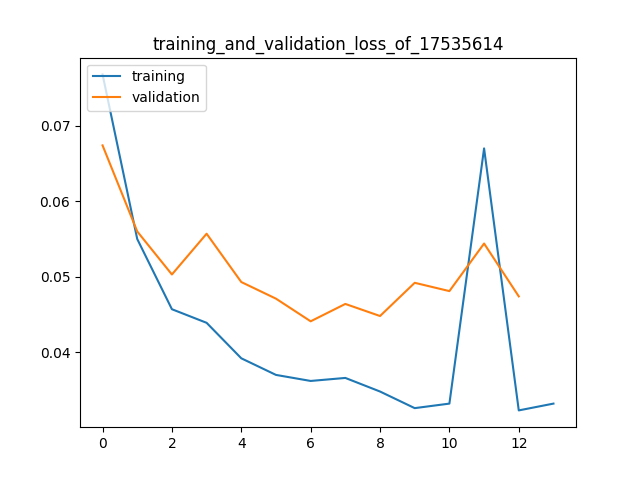
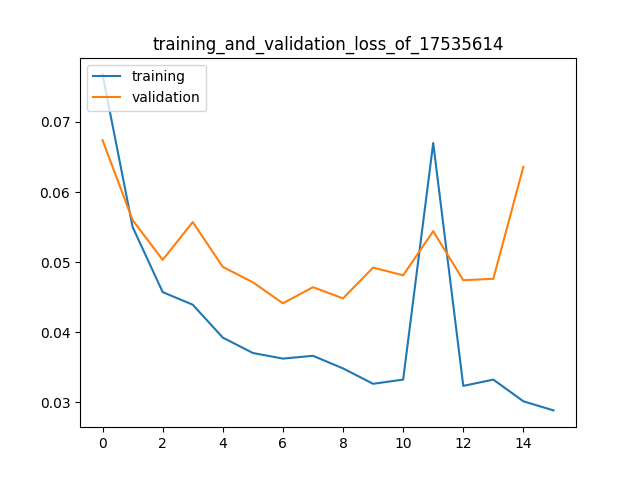
fixes

diff --git a/src/playground.py b/src/playground.py
@@ -15,18 +15,25 @@ def plot_training_and_validation_losses(slurm_output_file):
     training_loss_list = []
     validation_loss_list = []
     with open(slurm_output_file, "r", encoding="utf-8") as f:
+        new_epoch_train = True
+        new_epoch_validation = True
         for row in f:
             match_loss_training = re.search(r"Loss on the entire training epoch: (\d+\.\d+)", row)
-            if match_loss_training:
+            if match_loss_training and new_epoch_train:
                 loss = float(match_loss_training.group(1))
                 training_loss_list.append(loss)
+                new_epoch_train = False
             match_loss_validation = re.search(r"Loss on the entire validation epoch: (\d+\.\d+)", row)
-            if match_loss_validation:
+            if match_loss_validation and new_epoch_validation:
                 loss = float(match_loss_validation.group(1))
                 validation_loss_list.append(loss)
+                new_epoch_validation = False
+            if re.search("finished calculating the NSE per basin", row):
+                new_epoch_train = True
+                new_epoch_validation = True
     plt.title(f"training_and_validation_loss_of_{file_name}")
-    plt.plot(training_loss_list[::3], label="training")
-    plt.plot(validation_loss_list[::3], label="validation")
+    plt.plot(training_loss_list, label="training")
+    plt.plot(validation_loss_list, label="validation")
     plt.legend(loc="upper left")
     plt.savefig(f"training_and_validation_loss_of_{file_name}")
     plt.close()
